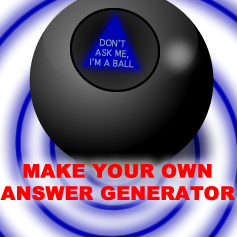
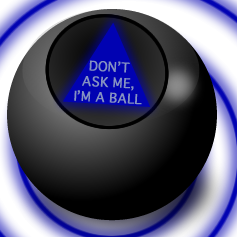
Updated some of the kit promo images

diff --git a/views/more.html b/views/more.html
@@ -45,53 +45,53 @@
     <div class='program more-games'>
       <div class='title'>
         Having fun?  Pretty good at Daisy?  <br />
-				Now try making a game.
+        Now try making a game.
       </div>
       <div id="workspace">
         <div class='game'>
           <div class='your-own'> build your own... </div>
           <div class='promo'>
-            <a href="crystalball.html" id="magic-8-ball"><img src='images/magic8ball-2.png'/ ></a>
+            <a href="crystalball.html" id="magic-8-ball"><img src='images/promos/magic8ball-2.png'/ ></a>
           </div>
           <div class='game-name'>Magic Crystal Ball</div>
         </div>
 
         <div class='game'>
           <div class='your-own'> build your own... </div>
-          <div class='promo'>  
-						<a href="astrodefender.html"><img src='images/rocket.png'/ ></a>
+          <div class='promo'>
+            <a href="astrodefender.html"><img src='images/promos/rocket.png'/ ></a>
           </div>
-	          <div class='game-name'>Astro Defender game</div>
+            <div class='game-name'>Astro Defender game</div>
         </div>
 
         <div class='game'>
           <div class='your-own'> build your own... </div>
           <div class='promo'>
-          	<a href="tictactoe.html"><img src='images/unicorn-tic-tac-toe.png'/ ></a>	
+            <a href="tictactoe.html"><img src='images/promos/rainbow-unicorn-2.png'/ ></a>
           </div>
-	          <div class='game-name'>Tic Tac Toe game</div>
+            <div class='game-name'>Tic Tac Toe game</div>
         </div>
 
         <div class='game'>
           <div class='your-own'> build your own... </div>
           <div class='promo'>
-          <a href="crabby.html"><img src='images/crab.png'/ ></a>	
+          <a href="crabby.html"><img src='images/crab.png'/ ></a>
           </div>
           <div class='game-name'>Crabby Comedian</div>
         </div>
 
         <div class='game'>
           <div class='your-own'> build your own... </div>
-          <div class='promo'> 
-						<a href="noisemachine.html"><img src='images/noise.png'/ ></a>	
-					</div>
+          <div class='promo'>
+            <a href="noisemachine.html"><img src='images/noise.png'/ ></a>
+          </div>
           <div class='game-name'>Noise Machine</div>
         </div>
 
         <div class='game'>
           <div class='your-own'> build your own... </div>
           <div class='promo'>
-          	<a href="whackamole.html"><img src='images/mole.png'/ ></a>
+            <a href="whackamole.html"><img src='images/mole.png'/ ></a>
           </div>
           <div class='game-name'>Whack-a-mole game</div>
         </div>

diff --git a/views/astrodefender.html b/views/astrodefender.html
@@ -47,18 +47,18 @@
         Astro Defender
       </div>
       <div id="workspace">
-				<div class='game-detail'>
-       <img src='images/rocket.png'/>
- 				</div>
-				<div class="game-description">
-					Get a kit to program your own spaceship shooting game!
-					
-					<blockquote>
-										You are responsible for making sure all the people inside the rocketship are safe.  Make sure you shoot all the asteroids before they hit the rocketship!  
-					</blockquote>
-					
-					Coming soon!  
-				</div>
+        <div class='game-detail'>
+       <img src='images/promos/rocket.png'/>
+         </div>
+        <div class="game-description">
+          Get a kit to program your own spaceship shooting game!
+
+          <blockquote>
+                    You are responsible for making sure all the people inside the rocketship are safe.  Make sure you shoot all the asteroids before they hit the rocketship!
+          </blockquote>
+
+          Coming soon!
+        </div>
      </div>
     </div>
   </body>

diff --git a/views/crystalball.html b/views/crystalball.html
@@ -47,18 +47,16 @@
         Magic Crystal Ball
       </div>
       <div id="workspace">
-				<div class='game-detail'>
-       <img src='images/magic8ball-2.png'/>
- 				</div>
-				<div class="game-description">
-					Get a kit to program your own Magic Crystal Ball game!
-					
-					<blockquote>
-										Have a question?  Shake the all-knowing crystal ball and get an answer!
-					</blockquote>
-					
-					Coming soon!  
-				</div>
+        <div class='game-detail'>
+       <img src='images/promos/magic8ball-2.png'/>
+         </div>
+        <div class="game-description">
+          Get a kit to program your own Magic Crystal Ball game!
+          <blockquote>
+                    Have a question?  Shake the all-knowing crystal ball and get an answer!
+          </blockquote>
+          Coming soon!
+        </div>
      </div>
     </div>
   </body>

diff --git a/views/tictactoe.html b/views/tictactoe.html
@@ -47,17 +47,17 @@
         Tic Tac Toe
       </div>
       <div id="workspace">
-				<div class='game-detail'>
-       <img src='images/unicorn-tic-tac-toe.png'/>
- 				</div>
-				<div class="game-description">
-					Get a kit to program your own Tic Tac Toe game. 
-					<br/> 
-					Use your own pictures for the Xs and Os.  			
-					<br/>
-					<br/>
-					Coming soon!  
-				</div>
+        <div class='game-detail'>
+       <img src='images/promos/rainbow-unicorn-2.png'/>
+         </div>
+        <div class="game-description">
+          Get a kit to program your own Tic Tac Toe game.
+          <br/>
+          Use your own pictures for the Xs and Os.
+          <br/>
+          <br/>
+          Coming soon!
+        </div>
      </div>
     </div>
   </body>
